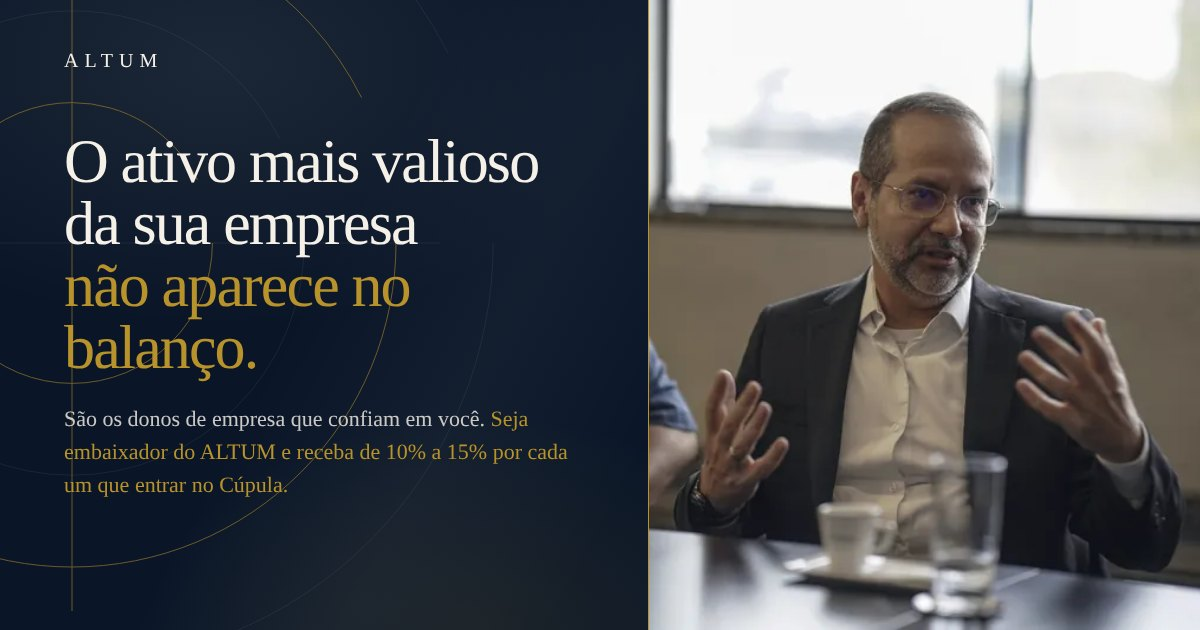
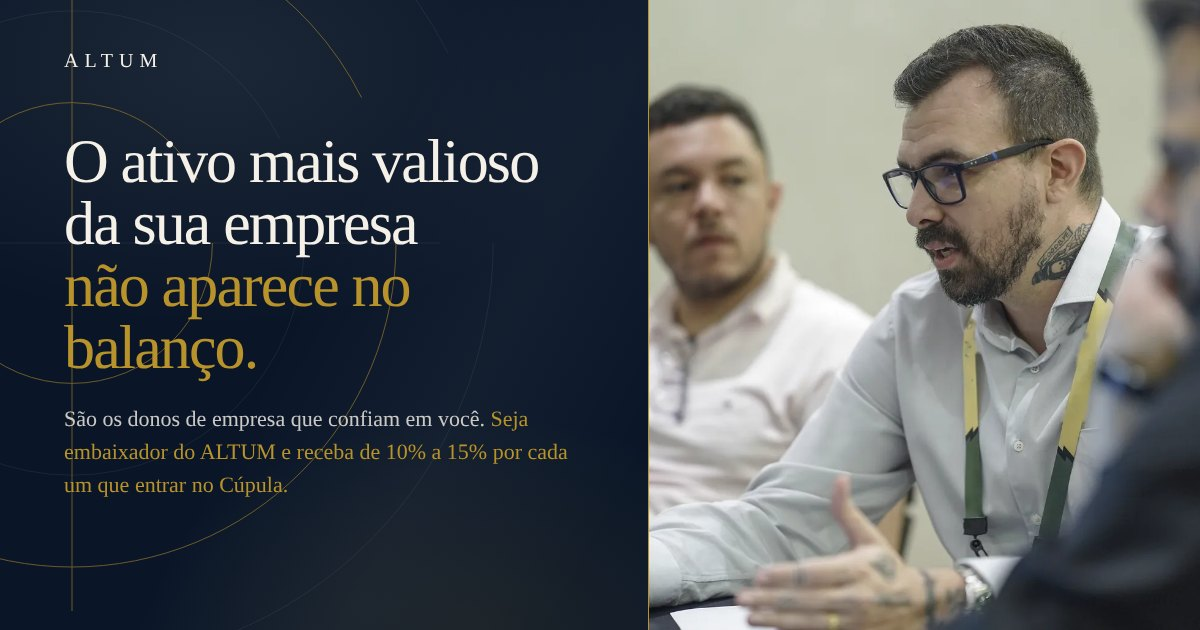
Embaixadores: nova foto do topo

diff --git a/embaixadores/index.html b/embaixadores/index.html
@@ -8,7 +8,7 @@
 <link rel="icon" href="/favicon.svg" type="image/svg+xml">
 <link rel="icon" href="/favicon-32.png" type="image/png" sizes="32x32">
 <link rel="apple-touch-icon" href="/apple-touch-icon.png">
-<link rel="preload" as="image" href="/embaixadores/emb-hero-1400.webp" imagesrcset="/embaixadores/emb-hero-800.webp 800w, /embaixadores/emb-hero-1400.webp 1400w, /embaixadores/emb-hero-2400.webp 2400w" imagesizes="(min-width:1024px) 46vw, 100vw">
+<link rel="preload" as="image" media="(min-width:1024px)" href="/embaixadores/emb-hero3-1600.webp" imagesrcset="/embaixadores/emb-hero3-900.webp 900w, /embaixadores/emb-hero3-1600.webp 1600w" imagesizes="(min-width:1024px) 46vw, 100vw">
 <meta name="theme-color" content="#0A1628">
 <meta name="description" content="Programa de embaixadores do ALTUM. Contabilidades, BPOs, escritórios de advocacia, corretoras, boutiques de M&A e ecossistemas que atendem donos de empresa recebem de 10% a 15% por cada membro que entrar no Cúpula.">
 <meta property="og:title" content="Embaixadores do ALTUM">
@@ -112,7 +112,7 @@ section{ position:relative; scroll-margin-top:72px; }
   .hero{ flex-direction:column; }
   .degrau{ padding:14px 10px 12px; }
   .hero-photo{ height:58svh; min-height:360px; }
-  .hero-photo img{ object-position:62% 30%; }
+  .hero-photo img{ object-position:50% 50%; }
   .hero-copy{ padding:40px var(--pad-x) 56px; }
   .hero-art{ width:520px; right:-200px; bottom:-140px; opacity:.35; }
 }
@@ -120,7 +120,7 @@ section{ position:relative; scroll-margin-top:72px; }
   .hero{ display:grid; grid-template-columns:54% 46%; }
   .hero-copy{ order:1; display:flex; flex-direction:column; justify-content:center; padding:130px 56px 64px var(--pad-x); max-width:860px; }
   .hero-photo{ order:2; height:100%; border-left:1px solid var(--gold); }
-  .hero-photo img{ object-position:60% 40%; }
+  .hero-photo img{ object-position:55% 30%; }
   .hero-art{ width:min(980px,72vw); left:-30vw; top:-30vh; opacity:.55; }
 }
 
@@ -539,8 +539,8 @@ section{ position:relative; scroll-margin-top:72px; }
 
   <div class="hero-photo" id="heroPhoto">
     <picture>
-      <source media="(max-width:1023px)" srcset="/embaixadores/emb-hero-m-900.webp">
-      <img id="heroImg" src="/embaixadores/emb-hero-1400.webp" srcset="/embaixadores/emb-hero-800.webp 800w, /embaixadores/emb-hero-1400.webp 1400w, /embaixadores/emb-hero-2400.webp 2400w" sizes="(min-width:1024px) 46vw, 100vw" width="1400" height="933" alt="Empresário fala à mesa durante uma sessão do ALTUM" fetchpriority="high" decoding="async">
+      <source media="(max-width:1023px)" srcset="/embaixadores/emb-hero3-m-900.webp">
+      <img id="heroImg" src="/embaixadores/emb-hero3-1600.webp" srcset="/embaixadores/emb-hero3-900.webp 900w, /embaixadores/emb-hero3-1600.webp 1600w" sizes="(min-width:1024px) 46vw, 100vw" width="1600" height="2133" alt="Dono de empresa fala durante uma sessão de conselho do Cúpula" fetchpriority="high" decoding="async">
     </picture>
   </div>
 
